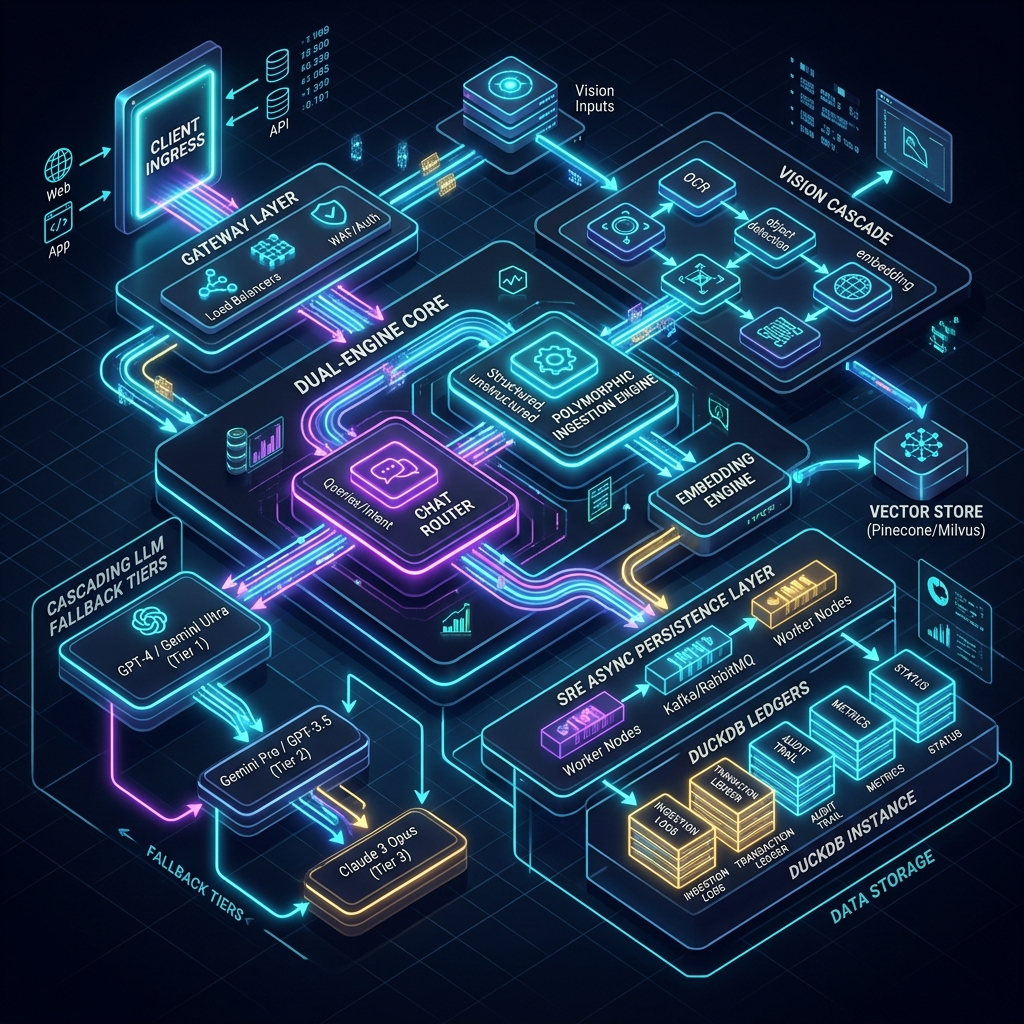
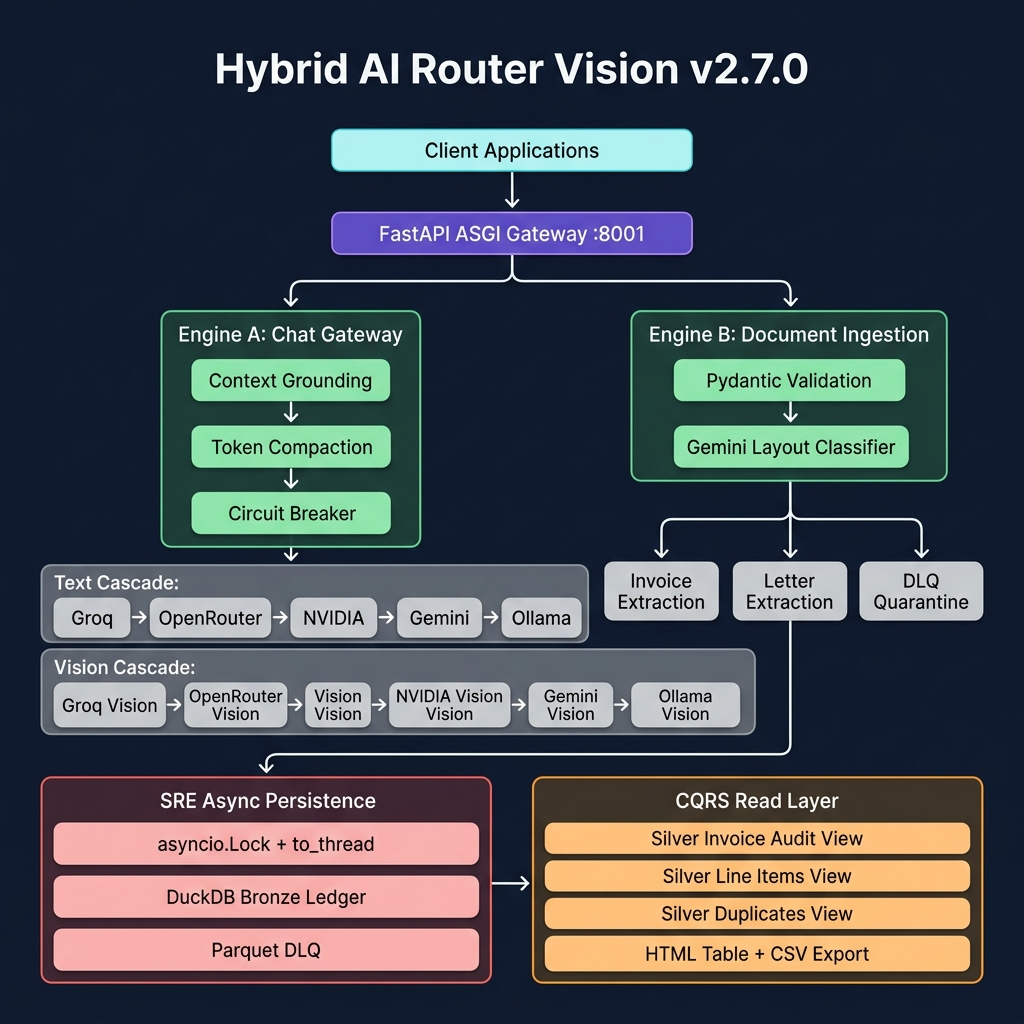
[Safe Checkpoint] docs: added system architecture diagram and simplified mermaid structure

diff --git a/README.md b/README.md
@@ -32,6 +32,11 @@ Built with SRE principles at its core, this system is a testament to resilience,
 
 At its heart, the system operates as a dual-engine architecture, each optimized for its specific domain while sharing a common, resilient infrastructure.
 
+![System Architecture](docs/assets/system_architecture_v2_7_0.png)
+
+<details>
+<summary>Mermaid Source (Machine-Parseable)</summary>
+
 ```mermaid
 flowchart TD
     classDef client fill:#E0F7FA,stroke:#00ACC1,stroke-width:2px,color:#006064
@@ -123,6 +128,7 @@ flowchart TD
     class AsyncLock,BronzeDB,DLQParquet db
     class ReadOnly,AuditView,LinesView,DupsView,HTMLTable breaker
 ```
+</details>
 
 ### 1. Gateway Engine (`POST /v1/chat/completions`)
 